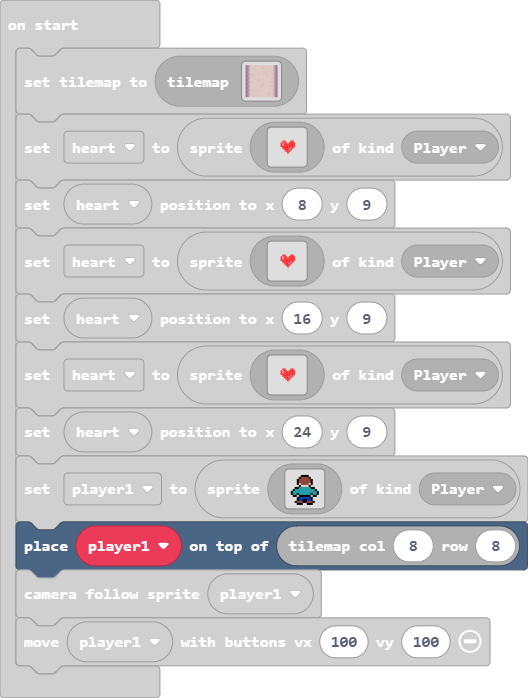
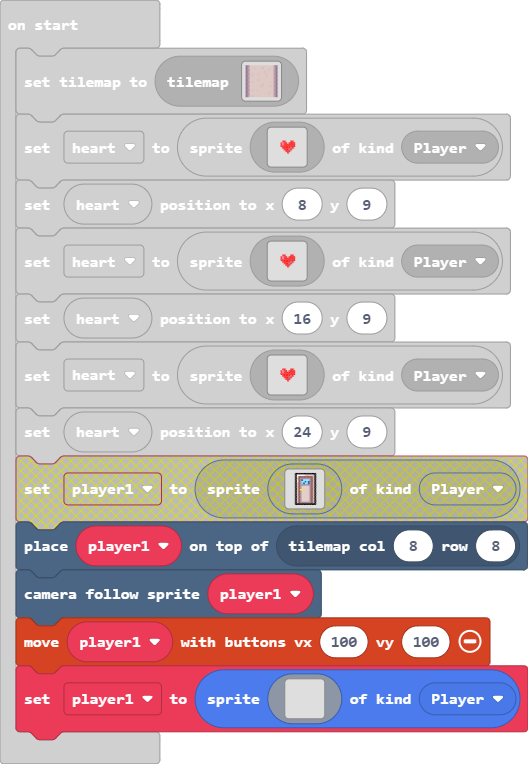
Update main.blocks, main.ts, images.g.jres, images.g.ts, tilemap.g.jres, tilemap.g.ts

diff --git a/images.g.ts b/images.g.ts
@@ -42,41 +42,6 @@ b555115dddd55d544eede...........
             case "colors":return img`
 3 7 4 a e 
 `;
-            case "image3":
-            case "Burger":return img`
-fffffffffffccccc66666fffffffffff
-ffffffffccc4444444444666ffffffff
-ffffffcc444444444bb4444466ffffff
-fffffcb4444bb4444b5b444444bfffff
-ffffeb4444b5b44444b44444444bffff
-fffebb44444b4444444444b444446fff
-ffeb6bb444444444bb444b5b444446ff
-ffe6bb5b44444444b5b444b44bb44eff
-fe66b4b4444444444b4444444b5b44ef
-fe6bb444444444444444444444bb44ef
-eb66b44444bb444444444444444444be
-eb66bb444b5b44444444bb44444444be
-fb666b444bb444444444b5b4444444bf
-fcb666b44444444444444bb444444bcf
-ffbb6666b44444444444444444444bff
-fefbb66666bb4444444444444444bfef
-f86fcbb66666bbb44444444444bcc688
-8772effcbbbbbbbbbbbbbbbbcfc22778
-87722222cccccccccccccccc22226678
-f866622222222222222222222276686f
-fef866677766667777776667777fffef
-fbff877768f86777777666776fffffbf
-fbeffeefffeff7766688effeeeefeb6f
-f6bfffeffeeeeeeeeeeeeefeeeeebb6e
-f66ddfffffeeeffeffeeeeeffeedb46e
-fc66ddd4effffffeeeeeffff4ddb46ef
-ffc6b4dddddddddddddddddddb444eef
-ffff6bb444444444444444444444eeff
-ffffffbbbb4444444444444444eeffff
-ffffffffebbbbbb44444444eeeffffff
-ffffffffffffffffccccceefffffffff
-ffffffffffffffffffffffffffffffff
-`;
             case "image4":
             case "heart":return img`
 ....................
@@ -102,22 +67,61 @@ ffffffffffffffffffffffffffffffff
 `;
             case "image5":
             case "myImage":return img`
-. . . . . . . . . . . . . . . . 
-. . . . . . f f f f . . . . . . 
-. . . . . f e e e e f . . . . . 
-. . . . f e e e e e e f . . . . 
-. . . . f e e e e e e f . . . . 
-. . . . f d e e e e d f . . . . 
-. . . . . f d d d d f . . . . . 
-. . . f f 6 6 6 6 6 6 f f . . . 
-. . f 6 6 6 6 6 6 6 6 6 6 f . . 
-. f 6 6 6 6 6 6 6 6 6 6 6 6 f . 
-. f 6 6 f 6 6 6 6 6 6 f 6 6 f . 
-. . f f . f f f f f f . f f . . 
-. . . . f 8 8 8 8 8 8 f . . . . 
-. . . . f 8 8 f f 8 8 f . . . . 
-. . . f e e e f f e e e f . . . 
-. . . . f f f . . f f f . . . . 
+....fffffffffffff...
+....f11111ddddddf...
+....f1eeeeeeeeedf...
+....fdebbbbbbbedf...
+....f1eb89999bedf...
+....f1eb99898bedf...
+....fdeb98998bedf...
+....fdebbbbbbbedf...
+....fdebdddddbedf...
+....fdebdddddbedf...
+....fde55ddddbedf...
+....fdebdddddbedf...
+....fdebdddddbedf...
+....fdebdddddbedf...
+....fdebdddddbedf...
+....fdebdddddbedf...
+....fdebdddddbedf...
+....fdebdddddbedf...
+....fdebbbbbbbedf...
+....fffffffffffff...
+`;
+            case "image3":
+            case "Burger":return img`
+...........ccccc66666...........
+........ccc444444444466.........
+......cc444444444bb4444466......
+.....cb4444bb4444b5b444444b.....
+....eb4444b5b44444b44444444b....
+...ebb44444b4444444444b444446...
+..eb6bb444444444bb444b5b444446..
+..e6bb5b44444444b5b444b44bb44e..
+.e66b4b4444444444b4444444b5b44e.
+.e6bb444444444444444444444bb44e.
+eb66b44444bb444444444444444444be
+eb66bb444b5b44444444bb44444444be
+.b666b444bb444444444b5b4444444b.
+.cb666b44444444444444bb444444bc.
+.fbb6666b44444444444444444444bf.
+.efbb66666bb4444444444444444bfe.
+.86fcbb66666bbb44444444444bcc688
+8772effcbbbbbbbbbbbbbbbbcfc22778
+87722222cccccccccccccccc22226678
+f866622222222222222222222276686.
+.ef866677766667777776667777fffe.
+.bff877768f86777777666776fffffb.
+.beffeefffeff7766688effeeeefeb6.
+.6bfffeffeeeeeeeeeeeeefeeeeebb6e
+.66ddfffffeeeffeffeeeeeffeedb46e
+.c66ddd4effffffeeeeeffff4ddb46e.
+...6b4dddddddddddddddddddb444ee.
+....6bb444444444444444444444ee..
+......bbbb4444444444444444ee....
+........ebbbbbb44444444ee.......
+.................ccccee.........
+................................
 `;
         }
         return null;

diff --git a/tilemap.g.ts b/tilemap.g.ts
@@ -26,6 +26,8 @@ namespace myTiles {
     export const tile11 = image.ofBuffer(hex``);
     //% fixedInstance jres blockIdentity=images._tile
     export const tile12 = image.ofBuffer(hex``);
+    //% fixedInstance jres blockIdentity=images._tile
+    export const tile13 = image.ofBuffer(hex``);
 
     helpers._registerFactory("tilemap", function(name: string) {
         switch(helpers.stringTrim(name)) {
@@ -66,7 +68,7 @@ namespace myTiles {
 . . . . . . . . . . . . . . . . 
 . . . . . . . . . . . . . . . . 
 . . . . . . . . . . . . . . . . 
-`, [myTiles.transparency16,myTiles.tile3,myTiles.tile2,myTiles.tile5,myTiles.tile6,myTiles.tile7,myTiles.tile8,myTiles.tile9,myTiles.tile10,myTiles.tile11,myTiles.tile12], TileScale.Sixteen);
+`, [myTiles.transparency16,myTiles.tile3,myTiles.tile2,myTiles.tile5,myTiles.tile6,myTiles.tile7,myTiles.tile8,myTiles.tile9,myTiles.tile10,myTiles.tile11,myTiles.tile12,myTiles.tile13], TileScale.Sixteen);
         }
         return null;
     })
@@ -98,6 +100,8 @@ namespace myTiles {
             case "tile11":return tile11;
             case "myTile10":
             case "tile12":return tile12;
+            case "myTile11":
+            case "tile13":return tile13;
         }
         return null;
     })

diff --git a/main.ts b/main.ts
@@ -5,7 +5,24 @@ heart = sprites.create(assets.image`heart`, SpriteKind.Player)
 heart.setPosition(16, 9)
 heart = sprites.create(assets.image`heart`, SpriteKind.Player)
 heart.setPosition(24, 9)
-let player1 = sprites.create(assets.image`myImage`, SpriteKind.Player)
+let player1 = sprites.create(img`
+    . . . . . . . . . . . . . . . . 
+    . . . . . . . . . . . . . . . . 
+    . . . . . . . . . . . . . . . . 
+    . . . . . . . . . . . . . . . . 
+    . . . . . . . . . . . . . . . . 
+    . . . . . . . . . . . . . . . . 
+    . . . . . . . . . . . . . . . . 
+    . . . . . . . . . . . . . . . . 
+    . . . . . . . . . . . . . . . . 
+    . . . . . . . . . . . . . . . . 
+    . . . . . . . . . . . . . . . . 
+    . . . . . . . . . . . . . . . . 
+    . . . . . . . . . . . . . . . . 
+    . . . . . . . . . . . . . . . . 
+    . . . . . . . . . . . . . . . . 
+    . . . . . . . . . . . . . . . . 
+    `, SpriteKind.Player)
 tiles.placeOnTile(player1, tiles.getTileLocation(8, 8))
 scene.cameraFollowSprite(player1)
 controller.moveSprite(player1, 100, 100)
